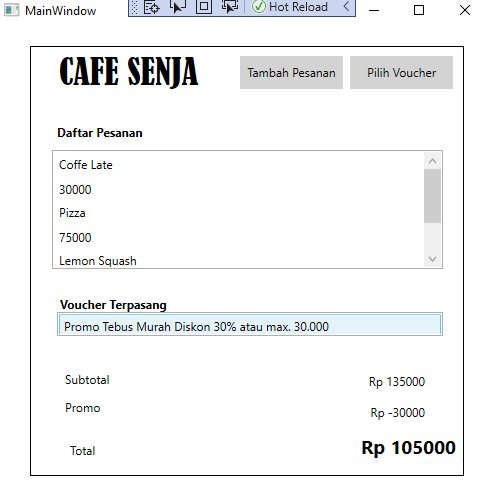
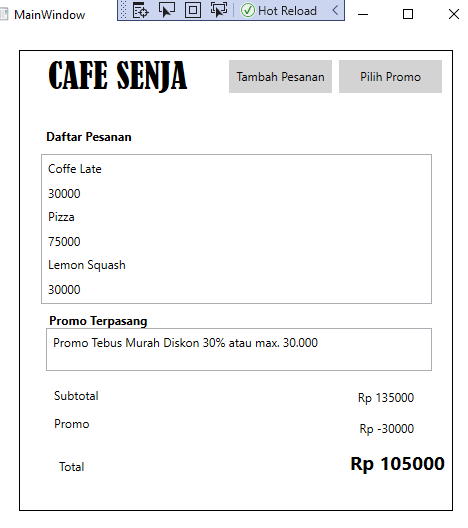
Baru

diff --git a/UAS2733/MainWindow.xaml b/UAS2733/MainWindow.xaml
@@ -36,8 +36,8 @@
             </ListBox.ItemTemplate>
         </ListBox>
         <Button x:Name="buttonAddItem" Content="Tambah Pesanan" HorizontalAlignment="Left" Width="105" Height="35" VerticalAlignment="Top" Margin="243,40,0,0" Click="onButtonAddItemClicked" BorderBrush="{x:Null}" Background="LightGray"/>
-        <Label Content="Voucher Terpasang&#xD;&#xA;" HorizontalAlignment="Left" Margin="59,76,0,0" VerticalAlignment="Top" FontWeight="Bold" Grid.Row="1"/>
-        <ListBox x:Name="listBoxPakaiVoucher" Margin="61,97,388,207" MouseLeftButtonUp="listBoxPakaiVoucher_ItemClicked" Grid.Row="1">
+        <Label Content="Promo Terpasang&#xD;&#xA;" HorizontalAlignment="Left" Margin="59,76,0,0" VerticalAlignment="Top" FontWeight="Bold" Grid.Row="1"/>
+        <ListBox x:Name="listBoxPakaiPromo" Margin="61,97,388,207" MouseLeftButtonUp="listBoxPakaiPromo_ItemClicked" Grid.Row="1">
             <ListBox.ItemTemplate>
                 <DataTemplate>
                     <Grid Margin="0,2">
@@ -46,6 +46,6 @@
                 </DataTemplate>
             </ListBox.ItemTemplate>
         </ListBox>
-        <Button x:Name="PilihVoucher" Content="Pilih Voucher" HorizontalAlignment="Left" Margin="353,40,0,0" VerticalAlignment="Top" Width="105" Height="35" Click="OnPilihVoucherClicked" Background="LightGray" BorderBrush="{x:Null}"/>
+        <Button x:Name="PilihPromo" Content="Pilih Promo" HorizontalAlignment="Left" Margin="353,40,0,0" VerticalAlignment="Top" Width="105" Height="35" Click="OnPilihPromoClicked" Background="LightGray" BorderBrush="{x:Null}"/>
     </Grid>
 </Window>

diff --git a/UAS2733/PilihPromo.xaml b/UAS2733/PilihPromo.xaml
@@ -1,14 +1,14 @@
-<Window x:Class="UAS2733.PilihVoucher"
+<Window x:Class="UAS2733.PilihPromo"
         xmlns="http://schemas.microsoft.com/winfx/2006/xaml/presentation"
         xmlns:x="http://schemas.microsoft.com/winfx/2006/xaml"
         xmlns:d="http://schemas.microsoft.com/expression/blend/2008"
         xmlns:mc="http://schemas.openxmlformats.org/markup-compatibility/2006"
         xmlns:local="clr-namespace:UAS2733"
         mc:Ignorable="d"
-        Title="PilihVoucher" Height="271" Width="411">
+        Title="PilihPromo" Height="271" Width="411">
     <Grid Margin="0,0,-84,-48">
-        <Label Content="Voucher Yang Tersedia" HorizontalAlignment="Left" Margin="16,22,0,0" VerticalAlignment="Top" Width="147"/>
-        <ListBox x:Name="DaftarVoucher" HorizontalAlignment="Left" Height="156" Margin="16,61,0,0" VerticalAlignment="Top" Width="371" SelectionChanged="DaftarVoucherSelectionChanged">
+        <Label Content="Promo Yang Tersedia" HorizontalAlignment="Left" Margin="16,22,0,0" VerticalAlignment="Top" Width="147"/>
+        <ListBox x:Name="DaftarPromo" HorizontalAlignment="Left" Height="156" Margin="16,61,0,0" VerticalAlignment="Top" Width="371" SelectionChanged="DaftarPromoSelectionChanged">
             <ListBox.ItemTemplate>
                 <DataTemplate>
                     <Grid Margin="0,1">

diff --git a/UAS2733/Model/KeranjangBelanja.cs b/UAS2733/Model/KeranjangBelanja.cs
@@ -8,7 +8,7 @@ namespace UAS2733.Model
     class KeranjangBelanja
     {
         List<Item> itemBelanja;
-        List<Voucher> itemVoucher;
+        List<Promo> itemPromo;
         int maksimal = 1;
         Payment payment;
         OnKeranjangBelanjaChangedListener callback;
@@ -17,7 +17,7 @@ namespace UAS2733.Model
         {
             this.payment = payment;
             this.itemBelanja = new List<Item>();
-            this.itemVoucher = new List<Voucher>();
+            this.itemPromo = new List<Promo>();
             this.callback = callback;
         }
         public List<Item> getItems()
@@ -25,9 +25,9 @@ namespace UAS2733.Model
             return this.itemBelanja;
         }
 
-        public List<Voucher> getVouchers()
+        public List<Promo> getPromo()
         {
-            return this.itemVoucher;
+            return this.itemPromo;
         }
 
 
@@ -38,12 +38,12 @@ namespace UAS2733.Model
             calculateSubTotal();
         }
 
-        public void addVoucher(Voucher item)
+        public void addPromo(Promo item)
         {
             if (maksimal == 1)
             {
-                this.itemVoucher.Add(item);
-                this.callback.addVoucherSucceed();
+                this.itemPromo.Add(item);
+                this.callback.addPromoSucceed();
                 maksimal = 0;
                 calculateSubTotal();
             }
@@ -53,10 +53,10 @@ namespace UAS2733.Model
             }
         }
 
-        public void removeVoucher(Voucher item)
+        public void removePromo(Promo item)
         {
-            this.itemVoucher.Remove(item);
-            this.callback.removeVoucherSucceed();
+            this.itemPromo.Remove(item);
+            this.callback.removePromoSucceed();
             maksimal = 1;
             calculateSubTotal();
         }
@@ -77,12 +77,12 @@ namespace UAS2733.Model
                 subtotal += item.price;
             }
 
-            foreach (Voucher voucher in itemVoucher)
+            foreach (Promo promo in itemPromo)
             {
-                if (voucher.discInPercent != 0)
+                if (promo.discInPercent != 0)
                 {
 
-                    if (voucher.discInPercent == 30)
+                    if (promo.discInPercent == 30)
                     {
                         if (subtotal >= 100000)
                         {
@@ -90,18 +90,18 @@ namespace UAS2733.Model
                         }
                         else
                         {
-                            potongan -= subtotal * (voucher.discInPercent / 100);
+                            potongan -= subtotal * (promo.discInPercent / 100);
                         }
                     }
                     else
                     {
-                        potongan -= subtotal * (voucher.discInPercent / 100);
+                        potongan -= subtotal * (promo.discInPercent / 100);
                     }
                 }
 
-                if (voucher.disc != 0)
+                if (promo.disc != 0)
                 {
-                    potongan -= voucher.disc;
+                    potongan -= promo.disc;
                 }
             }
             payment.updateTotal(subtotal, potongan);
@@ -115,7 +115,7 @@ namespace UAS2733.Model
         void removeItemSucceed();
         void addItemSucceed();
 
-        void removeVoucherSucceed();
-        void addVoucherSucceed();
+        void removePromoSucceed();
+        void addPromoSucceed();
     }
 }

diff --git a/UAS2733/MainWindow.xaml.cs b/UAS2733/MainWindow.xaml.cs
@@ -14,7 +14,7 @@ using System.Windows.Navigation;
 using System.Windows.Shapes;
 using UAS2733.Controller;
 using UAS2733.Model;
-using static UAS2733.PilihVoucher;
+using static UAS2733.PilihPromo;
 
 namespace UAS2733
 {
@@ -23,7 +23,7 @@ namespace UAS2733
     /// </summary>
     public partial class MainWindow : Window,
         OnPenawaranChangedListener,
-        OnPilihVoucherChangedListener,
+        OnPilihPromoChangedListener,
         OnPaymentChangedListener,
         OnKeranjangBelanjaChangedListener
     {
@@ -41,7 +41,7 @@ namespace UAS2733
             controller = new MainWindowController(keranjangBelanja);
 
             listBoxPesanan.ItemsSource = controller.getSelectedItems();
-            listBoxPakaiVoucher.ItemsSource = controller.getSelectedVouchers();
+            listBoxPakaiPromo.ItemsSource = controller.getSelectedPromos();
 
             initializeView();
 
@@ -77,14 +77,14 @@ namespace UAS2733
             }
         }
 
-        private void listBoxPakaiVoucher_ItemClicked(object sender, MouseButtonEventArgs e)
+        private void listBoxPakaiPromo_ItemClicked(object sender, MouseButtonEventArgs e)
         {
             if (MessageBox.Show("Kamu ingin membatalkan voucher ini?",
                    "Konfirmasi", MessageBoxButton.YesNo) == MessageBoxResult.Yes)
             {
                 ListBox listBox = sender as ListBox;
-                Voucher item = listBox.SelectedItem as Voucher;
-                controller.deleteSelectedVoucher(item);
+                Promo item = listBox.SelectedItem as Promo;
+                controller.deleteSelectedPromo(item);
             }
         }
 
@@ -105,28 +105,29 @@ namespace UAS2733
             listBoxPesanan.Items.Refresh();
         }
 
-        public void removeVoucherSucceed()
+        public void removePromoSucceed()
         {
-            listBoxPakaiVoucher.Items.Refresh();
+            listBoxPakaiPromo.Items.Refresh();
         }
 
-        public void addVoucherSucceed()
+        public void addPromoSucceed()
         {
-            listBoxPakaiVoucher.Items.Refresh();
+            listBoxPakaiPromo.Items.Refresh();
         }
 
-        private void OnPilihVoucherClicked(object sender, RoutedEventArgs e)
+        private void OnPilihPromoClicked(object sender, RoutedEventArgs e)
         {
-            PilihVoucher pilihVoucherWindow = new PilihVoucher();
-            pilihVoucherWindow.SetOnItemSelectedListener(this);
-            pilihVoucherWindow.Show();
+            PilihPromo pilihPromoWindow = new PilihPromo();
+            pilihPromoWindow.SetOnItemSelectedListener(this);
+            pilihPromoWindow.Show();
         }
 
-        public void OnPilihVoucherChangedListener(Voucher item)
+        public void OnPilihPromoChangedListener(Promo item)
         {
-            controller.addVoucher(item);
+            controller.addPromo(item);
         }
 
 
     }
+
 }

diff --git a/UAS2733/PilihPromo.xaml.cs b/UAS2733/PilihPromo.xaml.cs
@@ -1,0 +1,66 @@
+using System;
+using System.Collections.Generic;
+using System.Text;
+using System.Windows;
+using System.Windows.Controls;
+using System.Windows.Data;
+using System.Windows.Documents;
+using System.Windows.Input;
+using System.Windows.Media;
+using System.Windows.Media.Imaging;
+using System.Windows.Shapes;
+
+namespace UAS2733
+{
+    /// <summary>
+    /// Interaction logic for PilihVoucher.xaml
+    /// </summary>
+    public partial class PilihPromo : Window
+    {
+        Controller.PromoController promoController;
+        OnPilihPromoChangedListener listener;
+
+
+        public PilihPromo()
+        {
+            InitializeComponent();
+
+            promoController = new Controller.PromoController();
+            DaftarPromo.ItemsSource = promoController.getItems();
+
+            generateListPromo();
+        }
+
+       
+        private void generateListPromo()
+        {
+            Model.Promo awalTahun = new Model.Promo(title: "Promo Awal Tahun Diskon 25%", discInPercent: 25);
+            Model.Promo tebusMurah = new Model.Promo(title: "Promo Tebus Murah Diskon 30% atau max. 30.000", discInPercent: 30);
+            Model.Promo promoNatal = new Model.Promo(title: "Promo Natal Potongan 10000", disc: 10000);
+
+            promoController.addItem(awalTahun);
+            promoController.addItem(tebusMurah);
+            promoController.addItem(promoNatal);
+
+            DaftarPromo.Items.Refresh();
+        }
+
+        public void SetOnItemSelectedListener(OnPilihPromoChangedListener listener)
+        {
+            this.listener = listener;
+        }
+
+        public interface OnPilihPromoChangedListener
+        {
+            void OnPilihPromoChangedListener(Model.Promo item);
+        }
+
+        private void DaftarPromoSelectionChanged(object sender, SelectionChangedEventArgs e)
+        {
+            ListBox listbox = sender as ListBox;
+            Model.Promo item = listbox.SelectedItem as Model.Promo;
+
+            this.listener.OnPilihPromoChangedListener(item);
+        }
+    }
+}

diff --git a/UAS2733/Controller/MainWindowController.cs b/UAS2733/Controller/MainWindowController.cs
@@ -19,18 +19,18 @@ namespace UAS2733.Controller
             this.keranjangBelanja.addItem(item);
         }
 
-        public void addVoucher(Voucher item)
+        public void addPromo(Promo item)
         {
-            this.keranjangBelanja.addVoucher(item);
+            this.keranjangBelanja.addPromo(item);
         }
         public List<Item> getSelectedItems()
         {
             return this.keranjangBelanja.getItems();
         }
 
-        public List<Voucher> getSelectedVouchers()
+        public List<Promo> getSelectedPromos()
         {
-            return this.keranjangBelanja.getVouchers();
+            return this.keranjangBelanja.getPromo();
         }
 
         public void deleteSelectedItem(Item item)
@@ -38,9 +38,9 @@ namespace UAS2733.Controller
             this.keranjangBelanja.removeItem(item);
         }
 
-        public void deleteSelectedVoucher(Voucher item)
+        public void deleteSelectedPromo(Promo item)
         {
-            this.keranjangBelanja.removeVoucher(item);
+            this.keranjangBelanja.removePromo(item);
         }
 
 

diff --git a/UAS2733/Controller/PromoController.cs b/UAS2733/Controller/PromoController.cs
@@ -5,21 +5,21 @@ using UAS2733.Model;
 
 namespace UAS2733.Controller
 {
-    class VoucherController
+    class PromoController
     {
-        private List<Voucher> items;
+        private List<Promo> items;
 
-        public VoucherController()
+        public PromoController()
         {
-            items = new List<Voucher>();
+            items = new List<Promo>();
         }
 
-        public void addItem(Voucher item)
+        public void addItem(Promo item)
         {
             this.items.Add(item);
         }
 
-        public List<Voucher> getItems()
+        public List<Promo> getItems()
         {
             return this.items;
         }

diff --git a/UAS2733/Model/Promo.cs b/UAS2733/Model/Promo.cs
@@ -4,14 +4,14 @@ using System.Text;
 
 namespace UAS2733.Model
 {
-    public class Voucher
+    public class Promo
     {
         public string title { get; set; }
         public double disc { get; set; }
 
         public double discInPercent { get; set; }
 
-        public Voucher(string title, double disc = 0, double discInPercent = 0)
+        public Promo(string title, double disc = 0, double discInPercent = 0)
         {
             this.title = title;
             this.disc = disc;

diff --git a/UAS2733/Readme.md b/UAS2733/Readme.md
@@ -14,7 +14,7 @@ Aplikasi ini difungsikan untuk melayani pemesanan menu dan menghitung total harg
 - Simulasi 2
 ![Simulasi2](Simulasi2.png)
 - Simulasi 3
- ![Simulasi3](Simulasi3.png)
+![Simulasi3](Simulasi3.png)
 
 # Penjelasan 
 
